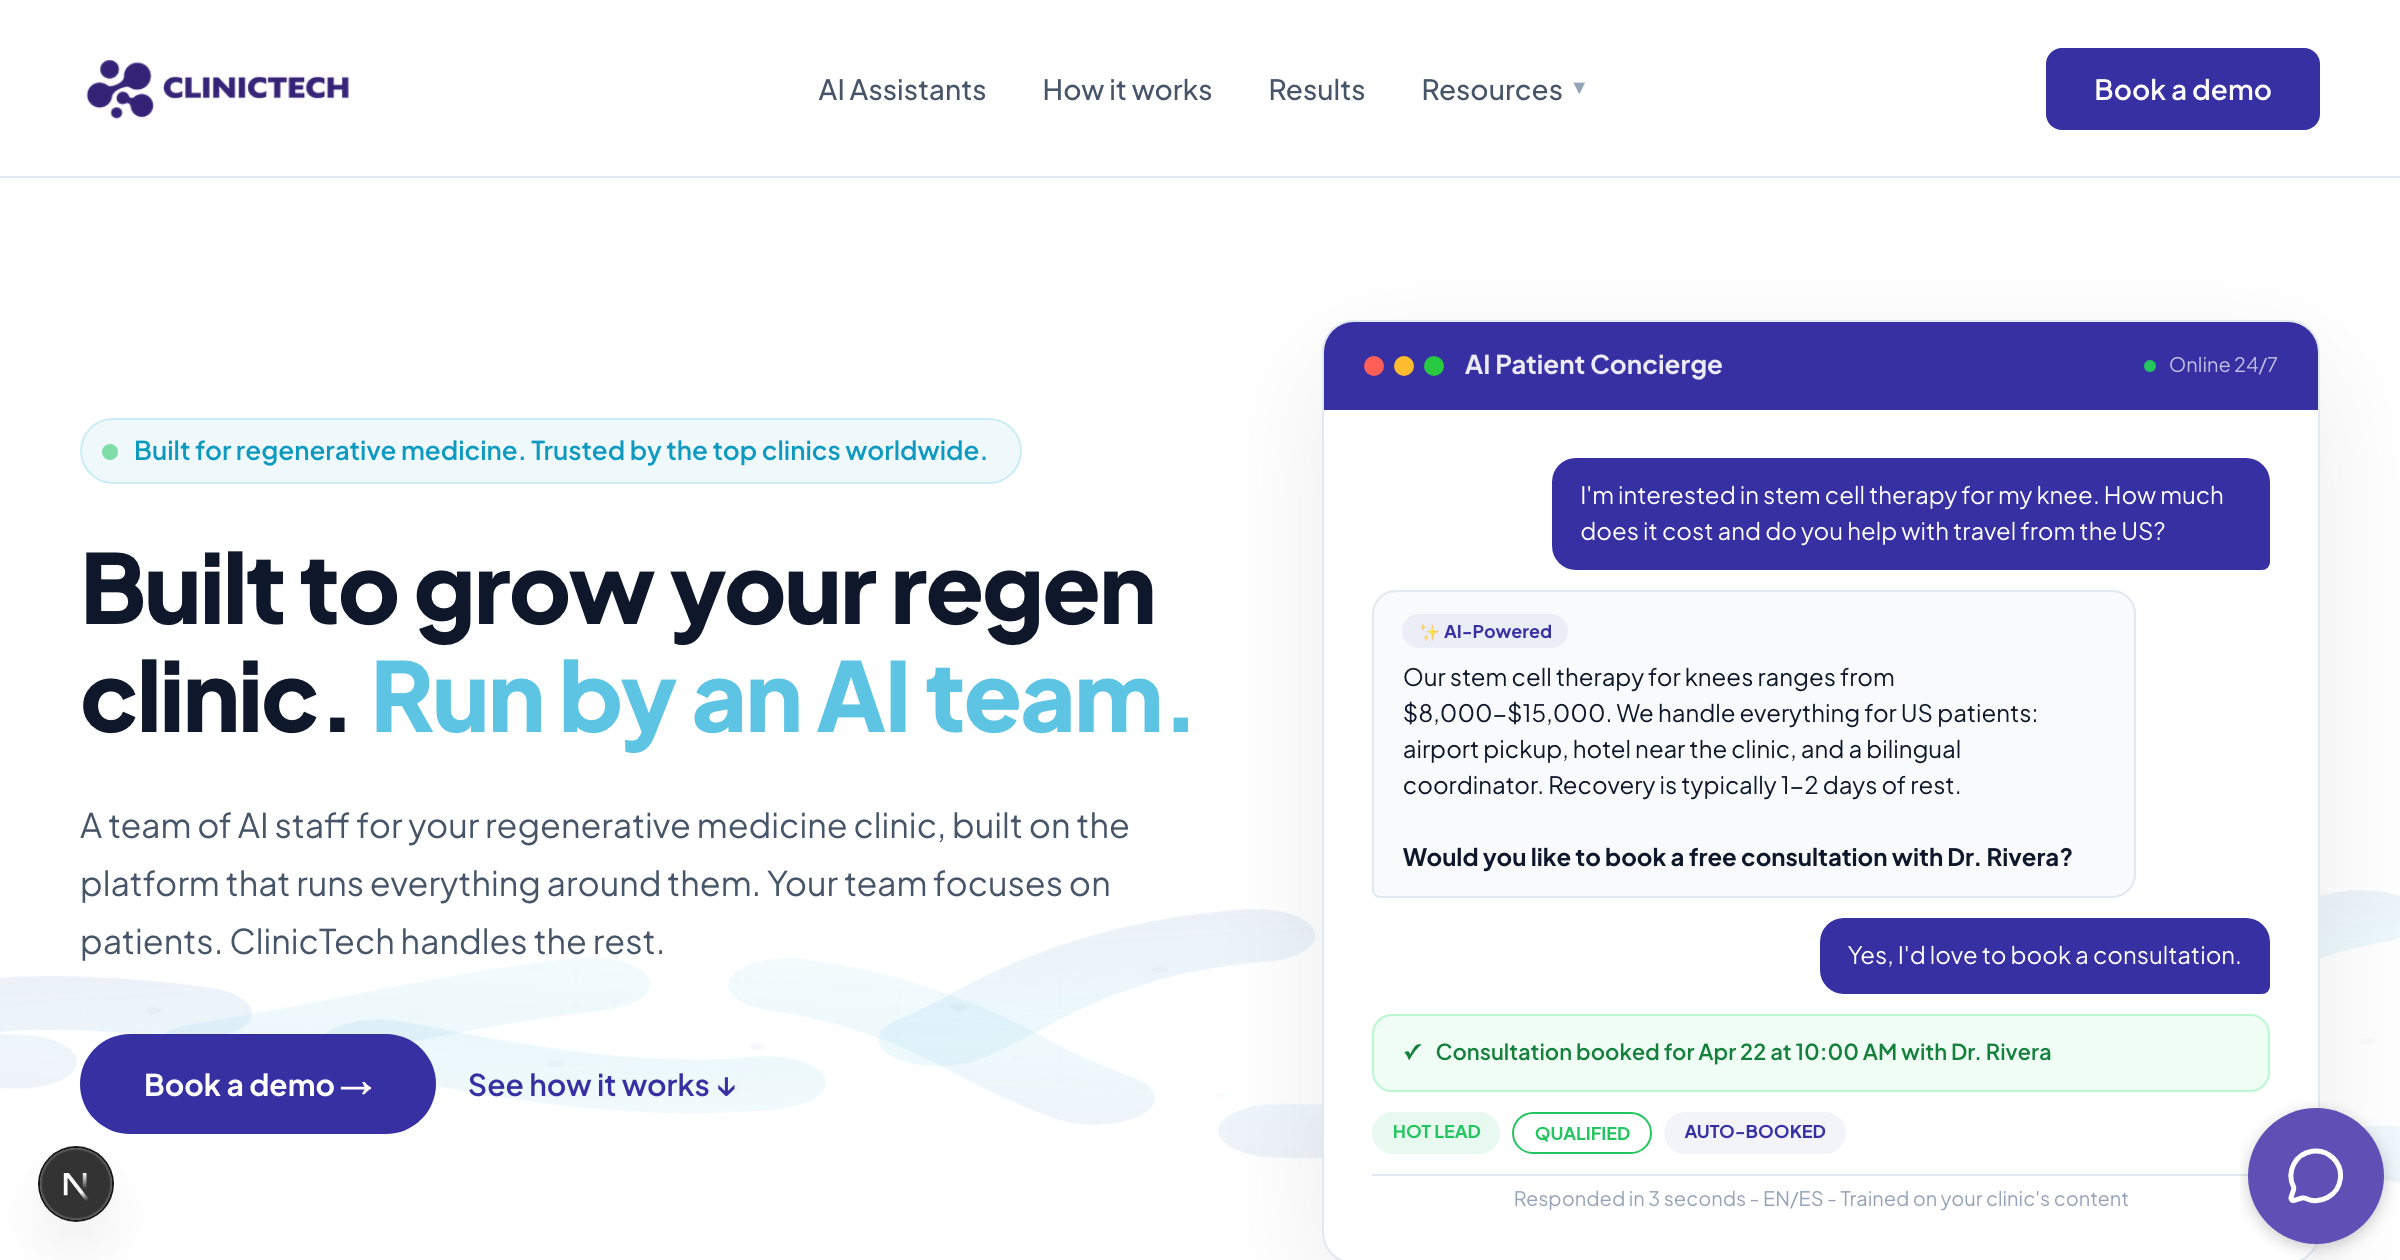
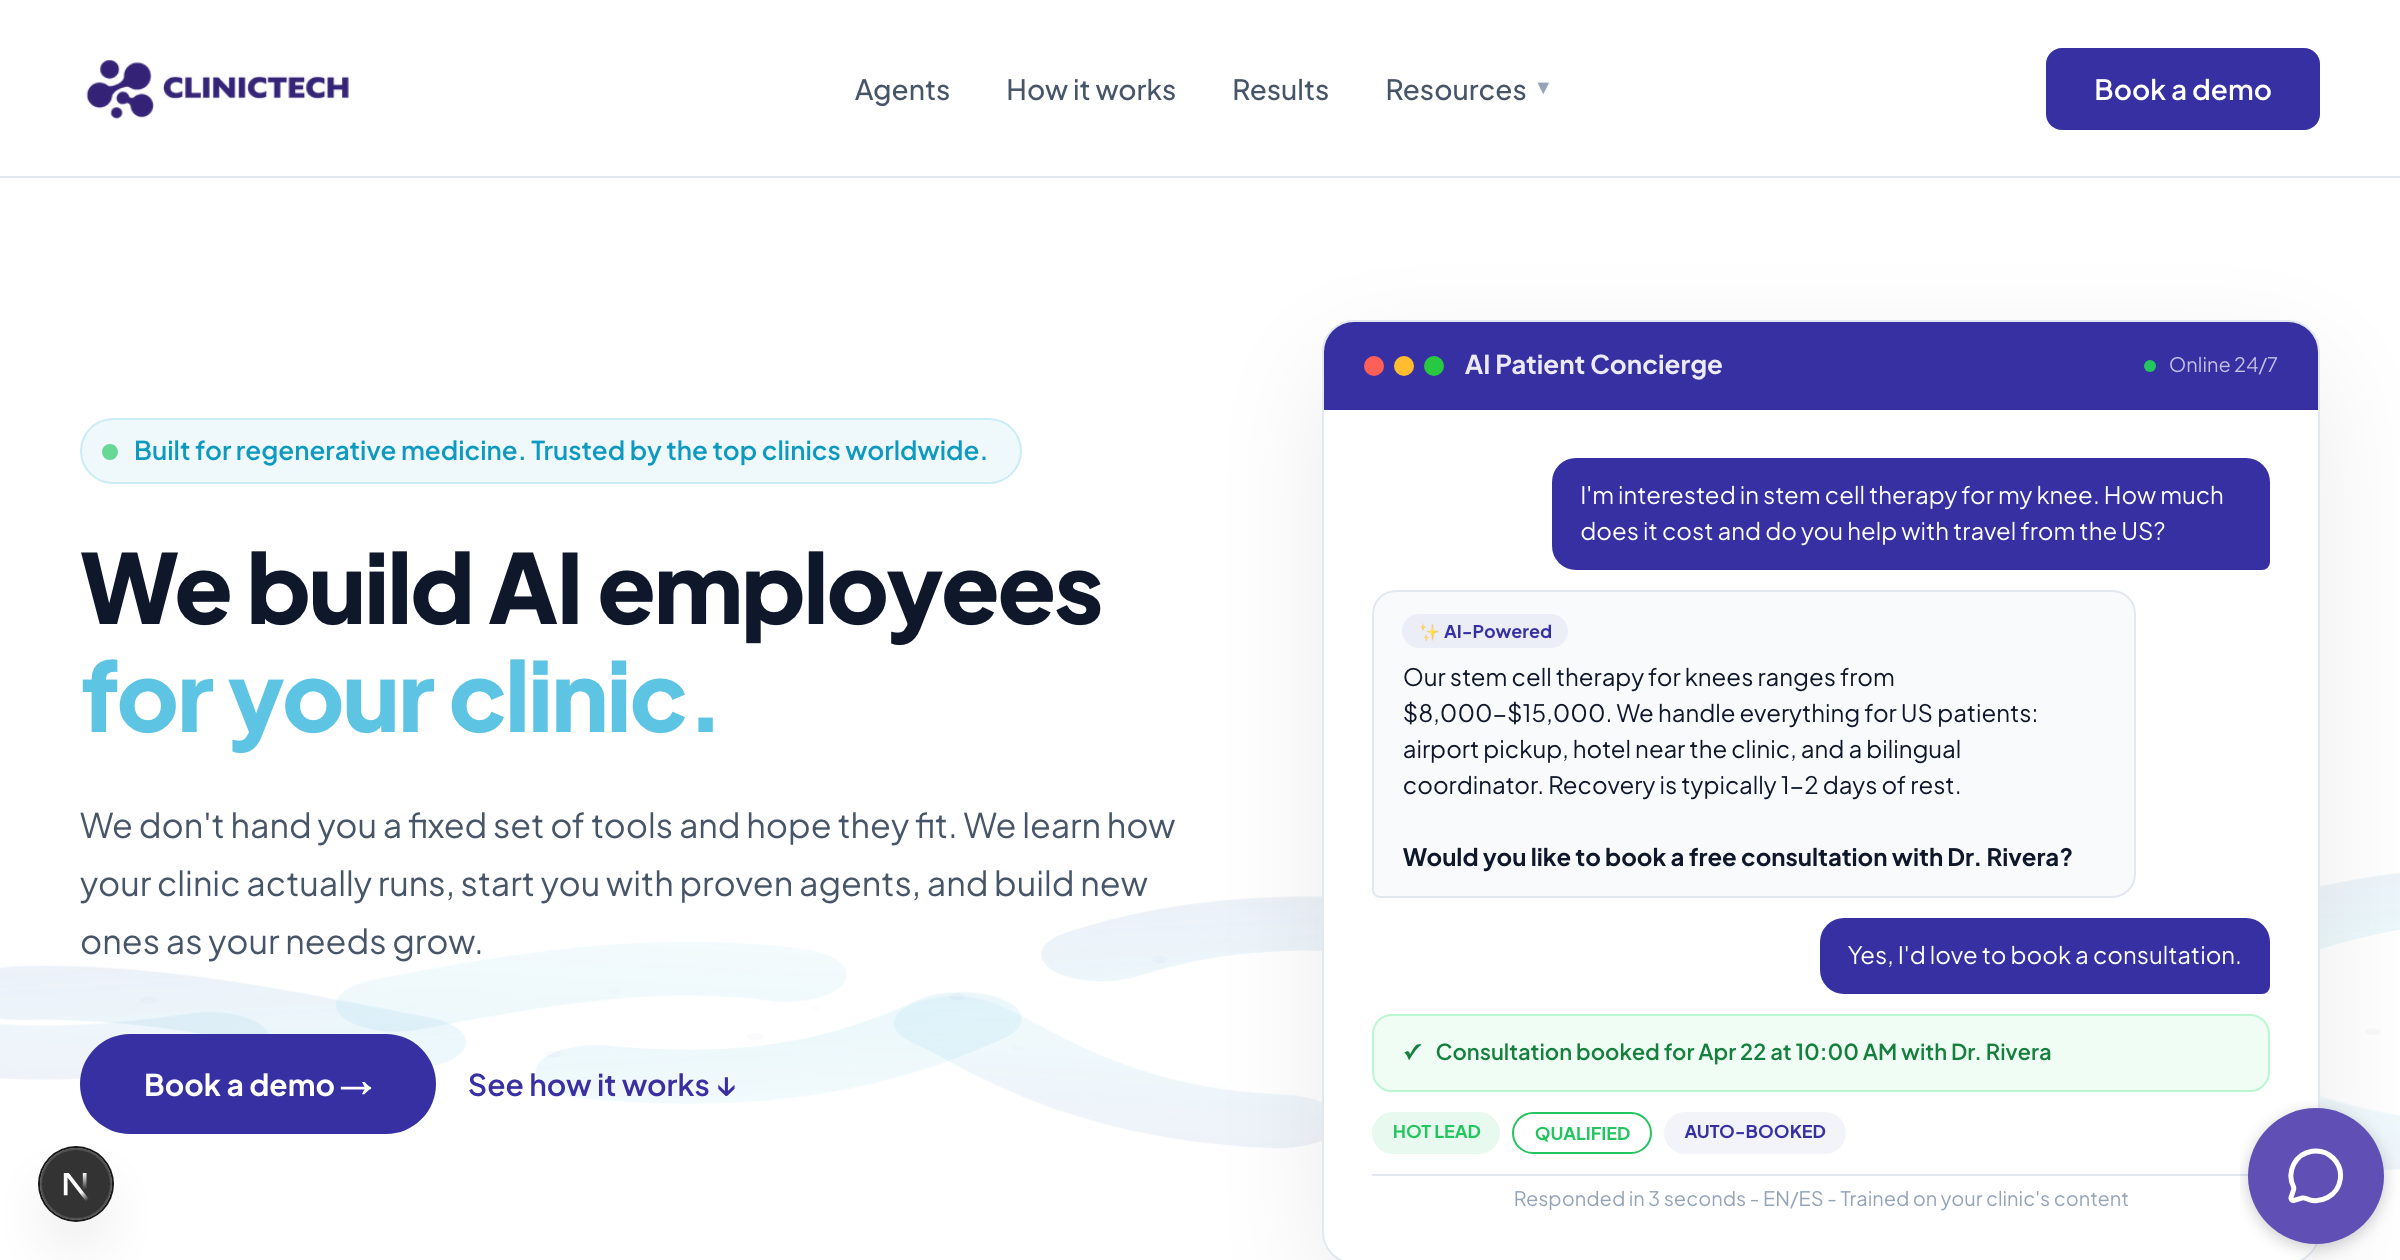
Reframe landing around 'we build AI employees', custom as proof of capability
Hero: "We build AI employees for your clinic." Subhead reframes the
offering as capability + custom, not a fixed feature list.

New "How we work together" section above the agents grid. Three steps:
we learn your clinic, you start with proven agents, we build the rest.
Replaces the bottom "Onboarding is simple" section, inheriting the
same #how-it-works anchor so nav keeps working.

Agents section reframed as "the starting lineup" with copy that
positions Mia, Sage, Atlas, Rio, and Tomas as the agents most regen
clinics start with, not the entire product.

New "Build your custom agent" section after the agents grid: a dashed
placeholder card plus a "Tell us about the role" mailto CTA. No
pricing or timeline language; demo conversation handles it.

Nav "AI Assistants" -> "Agents". Footer tagline and page metadata
align with the new positioning.

OG image recaptured so link previews show the new headline.

diff --git a/app/page.tsx b/app/page.tsx
@@ -857,10 +857,10 @@ body {
               Built for regenerative medicine. Trusted by the top clinics worldwide.
             </div>
             <h1 className="hero-title">
-              Built to grow your regen clinic. <span className="hl">Run by an AI team.</span>
+              We build AI employees <span className="hl">for your clinic.</span>
             </h1>
             <p className="hero-sub">
-              A team of AI staff for your regenerative medicine clinic, built on the platform that runs everything around them. Your team focuses on patients. ClinicTech handles the rest.
+              We don&apos;t hand you a fixed set of tools and hope they fit. We learn how your clinic actually runs, start you with proven agents, and build new ones as your needs grow.
             </p>
             <div className="hero-ctas">
               <a href={CALENDAR_URL} target="_blank" rel="noopener noreferrer" className="btn-primary">Book a demo &rarr;</a>
@@ -934,7 +934,7 @@ body {
       {/* ===== 2. PROBLEM STATEMENT ===== */}
       <section className="problem-section">
         <div className="container" style={{textAlign: "center"}}>
-          <h2 className="section-title">If any of this sounds familiar, you&apos;re not alone.</h2>
+          <h2 className="section-title">If you&apos;re running a regen clinic in 2026, you know the pattern.</h2>
           <div className="problem-grid">
             <div className="problem-card reveal">
               <div className="problem-card-icon" style={{background: "rgba(37,99,235,0.08)", color: "#2563EB"}}>&#9200;</div>
@@ -965,6 +965,53 @@ body {
         </div>
       </section>
 
+
+      {/* ===== HOW WE WORK TOGETHER ===== */}
+      <section className="how-section" id="how-it-works">
+        <style>{`
+          .how-section .how-eyebrow {
+            display: inline-block; font-size: 12px; font-weight: 700; text-transform: uppercase;
+            letter-spacing: 1.5px; color: #3730A3; margin-bottom: 12px;
+          }
+          .how-section .how-lead {
+            font-size: 17px; line-height: 1.65; color: #475569; max-width: 760px; margin: 0 auto 48px;
+          }
+          .how-section .how-close {
+            font-size: 16px; line-height: 1.6; color: #0F172A; font-weight: 600;
+            max-width: 760px; margin: 40px auto 28px; text-align: center;
+          }
+        `}</style>
+        <div className="container" style={{textAlign: "center"}}>
+          <span className="how-eyebrow">How we work together</span>
+          <h2 className="section-title">Most platforms sell you a feature list. We build you a team.</h2>
+          <p className="how-lead">
+            It starts with a conversation about how your clinic actually runs. From there we put the right AI employees in place, and build new ones as your team grows.
+          </p>
+          <div className="how-steps">
+            <div className="how-step reveal">
+              <div className="how-step-num">1</div>
+              <h3>We learn your clinic</h3>
+              <p>How patients find you. How protocols get built. How follow-up happens. Where your staff loses hours every week. We sit with you until we understand it the way you do.</p>
+            </div>
+            <div className="how-step reveal">
+              <div className="how-step-num">2</div>
+              <h3>You start with proven agents</h3>
+              <p>Mia, Sage, Atlas, Rio, and Tomas handle the roles every regen clinic needs filled. They go live on day one, trained on your protocols, your tone, your pipeline.</p>
+            </div>
+            <div className="how-step reveal">
+              <div className="how-step-num">3</div>
+              <h3>We build the rest</h3>
+              <p>As you grow, as you spot a gap, as you imagine a role that does not exist yet, we build the agent to fill it. Trained on your process. Working the way your clinic works.</p>
+            </div>
+          </div>
+          <p className="how-close reveal">
+            Your AI team grows with you. You are never boxed in by what we shipped last quarter.
+          </p>
+          <div className="how-cta">
+            <a href={CALENDAR_URL} target="_blank" rel="noopener noreferrer" className="btn-primary">Book a demo &rarr;</a>
+          </div>
+        </div>
+      </section>
 
       <section className="agents-section" id="products">
         <style>{`
@@ -1132,9 +1179,9 @@ body {
         `}</style>
         <div className="container">
           <div className="agents-head reveal">
-            <div className="agents-eyebrow">Meet your AI team</div>
-            <h2>Five named agents. Each one a specialist.</h2>
-            <p>Each one trained on your protocols, your tone, your pipeline.</p>
+            <div className="agents-eyebrow">The starting lineup</div>
+            <h2>Five agents most regen clinics start with.</h2>
+            <p>Ready on day one. Trained on your protocols, your tone, your pipeline.</p>
           </div>
           <div className="agents-grid">
             {(() => {
@@ -1211,6 +1258,70 @@ body {
                 </>
               );
             })()}
+          </div>
+
+          <div className="custom-agent reveal">
+            <style>{`
+              .custom-agent {
+                margin-top: 56px; max-width: 1080px; margin-left: auto; margin-right: auto;
+                display: grid; grid-template-columns: 1.05fr 1fr; gap: 32px;
+                background: #fff; border: 1px solid #E2E8F0; border-radius: 20px;
+                padding: 40px;
+              }
+              .custom-agent .custom-eyebrow {
+                display: inline-block; font-size: 12px; font-weight: 700; text-transform: uppercase;
+                letter-spacing: 1.5px; color: #3730A3; margin-bottom: 12px;
+              }
+              .custom-agent h2 {
+                font-size: 28px; font-weight: 800; letter-spacing: -0.5px; line-height: 1.2;
+                color: #0F172A; margin-bottom: 16px;
+              }
+              .custom-agent p {
+                font-size: 16px; line-height: 1.65; color: #475569; margin-bottom: 24px;
+              }
+              .custom-agent-cta {
+                display: inline-flex; align-items: center; gap: 8px;
+                padding: 12px 24px; background: #3730A3; color: #fff;
+                border-radius: 100px; font-weight: 700; font-size: 14px; text-decoration: none;
+                transition: all 0.2s;
+              }
+              .custom-agent-cta:hover { background: #4338CA; box-shadow: 0 4px 16px rgba(55,48,163,0.25); transform: translateY(-1px); }
+              .custom-agent-card {
+                border: 2px dashed #C7D2FE; border-radius: 20px;
+                background: linear-gradient(180deg, #F8FAFC 0%, #EEF2FF 100%);
+                display: flex; flex-direction: column; align-items: center; justify-content: center;
+                padding: 36px 24px; text-align: center; min-height: 280px;
+              }
+              .custom-agent-card .plus {
+                width: 56px; height: 56px; border-radius: 50%;
+                background: #fff; border: 2px solid #C7D2FE; color: #3730A3;
+                display: flex; align-items: center; justify-content: center;
+                font-size: 28px; font-weight: 700; margin-bottom: 16px;
+              }
+              .custom-agent-card .label {
+                font-size: 15px; font-weight: 800; color: #3730A3; margin-bottom: 4px;
+              }
+              .custom-agent-card .sub {
+                font-size: 13px; color: #64748B; line-height: 1.5; max-width: 240px;
+              }
+              @media (max-width: 768px) {
+                .custom-agent { grid-template-columns: 1fr; padding: 28px 24px; gap: 24px; }
+                .custom-agent h2 { font-size: 22px; }
+              }
+            `}</style>
+            <div>
+              <span className="custom-eyebrow">Custom builds</span>
+              <h2>Don&apos;t see the role you need to fill?</h2>
+              <p>
+                Tell us what you wish a member of your team could just handle. We will build the agent for it. Trained on your process, integrated with your pipeline, working the way your clinic works.
+              </p>
+              <a className="custom-agent-cta" href="mailto:delaney@clinictech.io?subject=Custom%20agent%20for%20our%20clinic">Tell us about the role &rarr;</a>
+            </div>
+            <div className="custom-agent-card">
+              <div className="plus">+</div>
+              <div className="label">Your custom agent</div>
+              <div className="sub">A role unique to your clinic, built and trained for you.</div>
+            </div>
           </div>
 
           <div className="under-hood reveal">
@@ -1364,33 +1475,6 @@ body {
         </div>
       </section>
 
-      {/* ===== HOW IT WORKS ===== */}
-      <section className="how-section" id="how-it-works">
-        <div className="container" style={{textAlign: "center"}}>
-          <h2 className="section-title">Onboarding is simple. White-glove the whole way.</h2>
-          <p className="section-sub" style={{margin: "0 auto 48px", textAlign: "center"}}>Think of us as an extra member of your tech team. We set up, train, and tune your agents alongside you.</p>
-          <div className="how-steps">
-            <div className="how-step reveal">
-              <div className="how-step-num">1</div>
-              <h3>Add the knowledge base specific to your clinic</h3>
-              <p>No two operating systems are the same. Each one is unique to your clinic. Your protocols, your pricing, your patient stories, your tone, all loaded in.</p>
-            </div>
-            <div className="how-step reveal">
-              <div className="how-step-num">2</div>
-              <h3>Select which agents you want to hire</h3>
-              <p>Mia, Sage, Atlas, Rio, and Tomas are ready out of the box. Turn on the ones you need today. Add the rest as your clinic grows.</p>
-            </div>
-            <div className="how-step reveal">
-              <div className="how-step-num">3</div>
-              <h3>Your agents go to work while you sleep</h3>
-              <p>They engage every patient, draft every reply, surface every coaching opportunity, and capture every story. Your team focuses on care. The bookings keep coming in.</p>
-            </div>
-          </div>
-          <div className="how-cta">
-            <a href={CALENDAR_URL} target="_blank" rel="noopener noreferrer" className="btn-primary">Book a demo &rarr;</a>
-          </div>
-        </div>
-      </section>
 
       {/* ===== 9. FINAL CTA ===== */}
       <section className="final-cta-section">
@@ -1414,7 +1498,7 @@ body {
               <div className="footer-brand-name">
                 <img src="/clinictech-logo.png" alt="ClinicTech" style={{height: 28, filter: "brightness(0) saturate(100%) invert(13%) sepia(50%) saturate(3000%) hue-rotate(240deg)"}} />
               </div>
-              <p>The growth platform built for regenerative medicine clinics.</p>
+              <p>We build AI employees for regenerative medicine clinics.</p>
             </div>
             <div className="footer-col">
               <h4>Resources</h4>

diff --git a/components/site-nav.tsx b/components/site-nav.tsx
@@ -102,7 +102,7 @@ export function SiteNav() {
           <img src="/clinictech-logo.png" alt="ClinicTech" />
         </Link>
         <div className="site-nav-center">
-          <a href="/#products">AI Assistants</a>
+          <a href="/#products">Agents</a>
           <a href="/#how-it-works">How it works</a>
           <a href="/#results">Results</a>
           <div className="nav-dropdown" onMouseEnter={() => setResourcesOpen(true)} onMouseLeave={() => setResourcesOpen(false)}>
@@ -123,7 +123,7 @@ export function SiteNav() {
       </nav>
       <div className={`site-nav-mobile-menu ${mobileOpen ? "open" : ""}`}>
         <Link href="/" className={pathname === "/" ? "active" : ""} onClick={() => setMobileOpen(false)}>Home</Link>
-        <a href="/#products" onClick={() => setMobileOpen(false)}>AI Assistants</a>
+        <a href="/#products" onClick={() => setMobileOpen(false)}>Agents</a>
         <a href="/#how-it-works" onClick={() => setMobileOpen(false)}>How it works</a>
         <Link href="/blog" onClick={() => setMobileOpen(false)}>Blog</Link>
         <Link href="/regen-news" onClick={() => setMobileOpen(false)}>Regen News</Link>

diff --git a/app/layout.tsx b/app/layout.tsx
@@ -16,8 +16,8 @@ const geistMono = Geist_Mono({
 });
 
 export const metadata: Metadata = {
-  title: "ClinicTech - Your Clinic's Growth Engine",
-  description: "A fully custom back-office platform and patient portal for regenerative medicine clinics. Branded to you, connected to your tools, live in days.",
+  title: "ClinicTech — We build AI employees for your clinic",
+  description: "We learn how your regen clinic actually runs, start you with proven AI agents, and build custom ones as you grow.",
   icons: {
     icon: [
       { url: "/favicon.ico", sizes: "48x48" },
